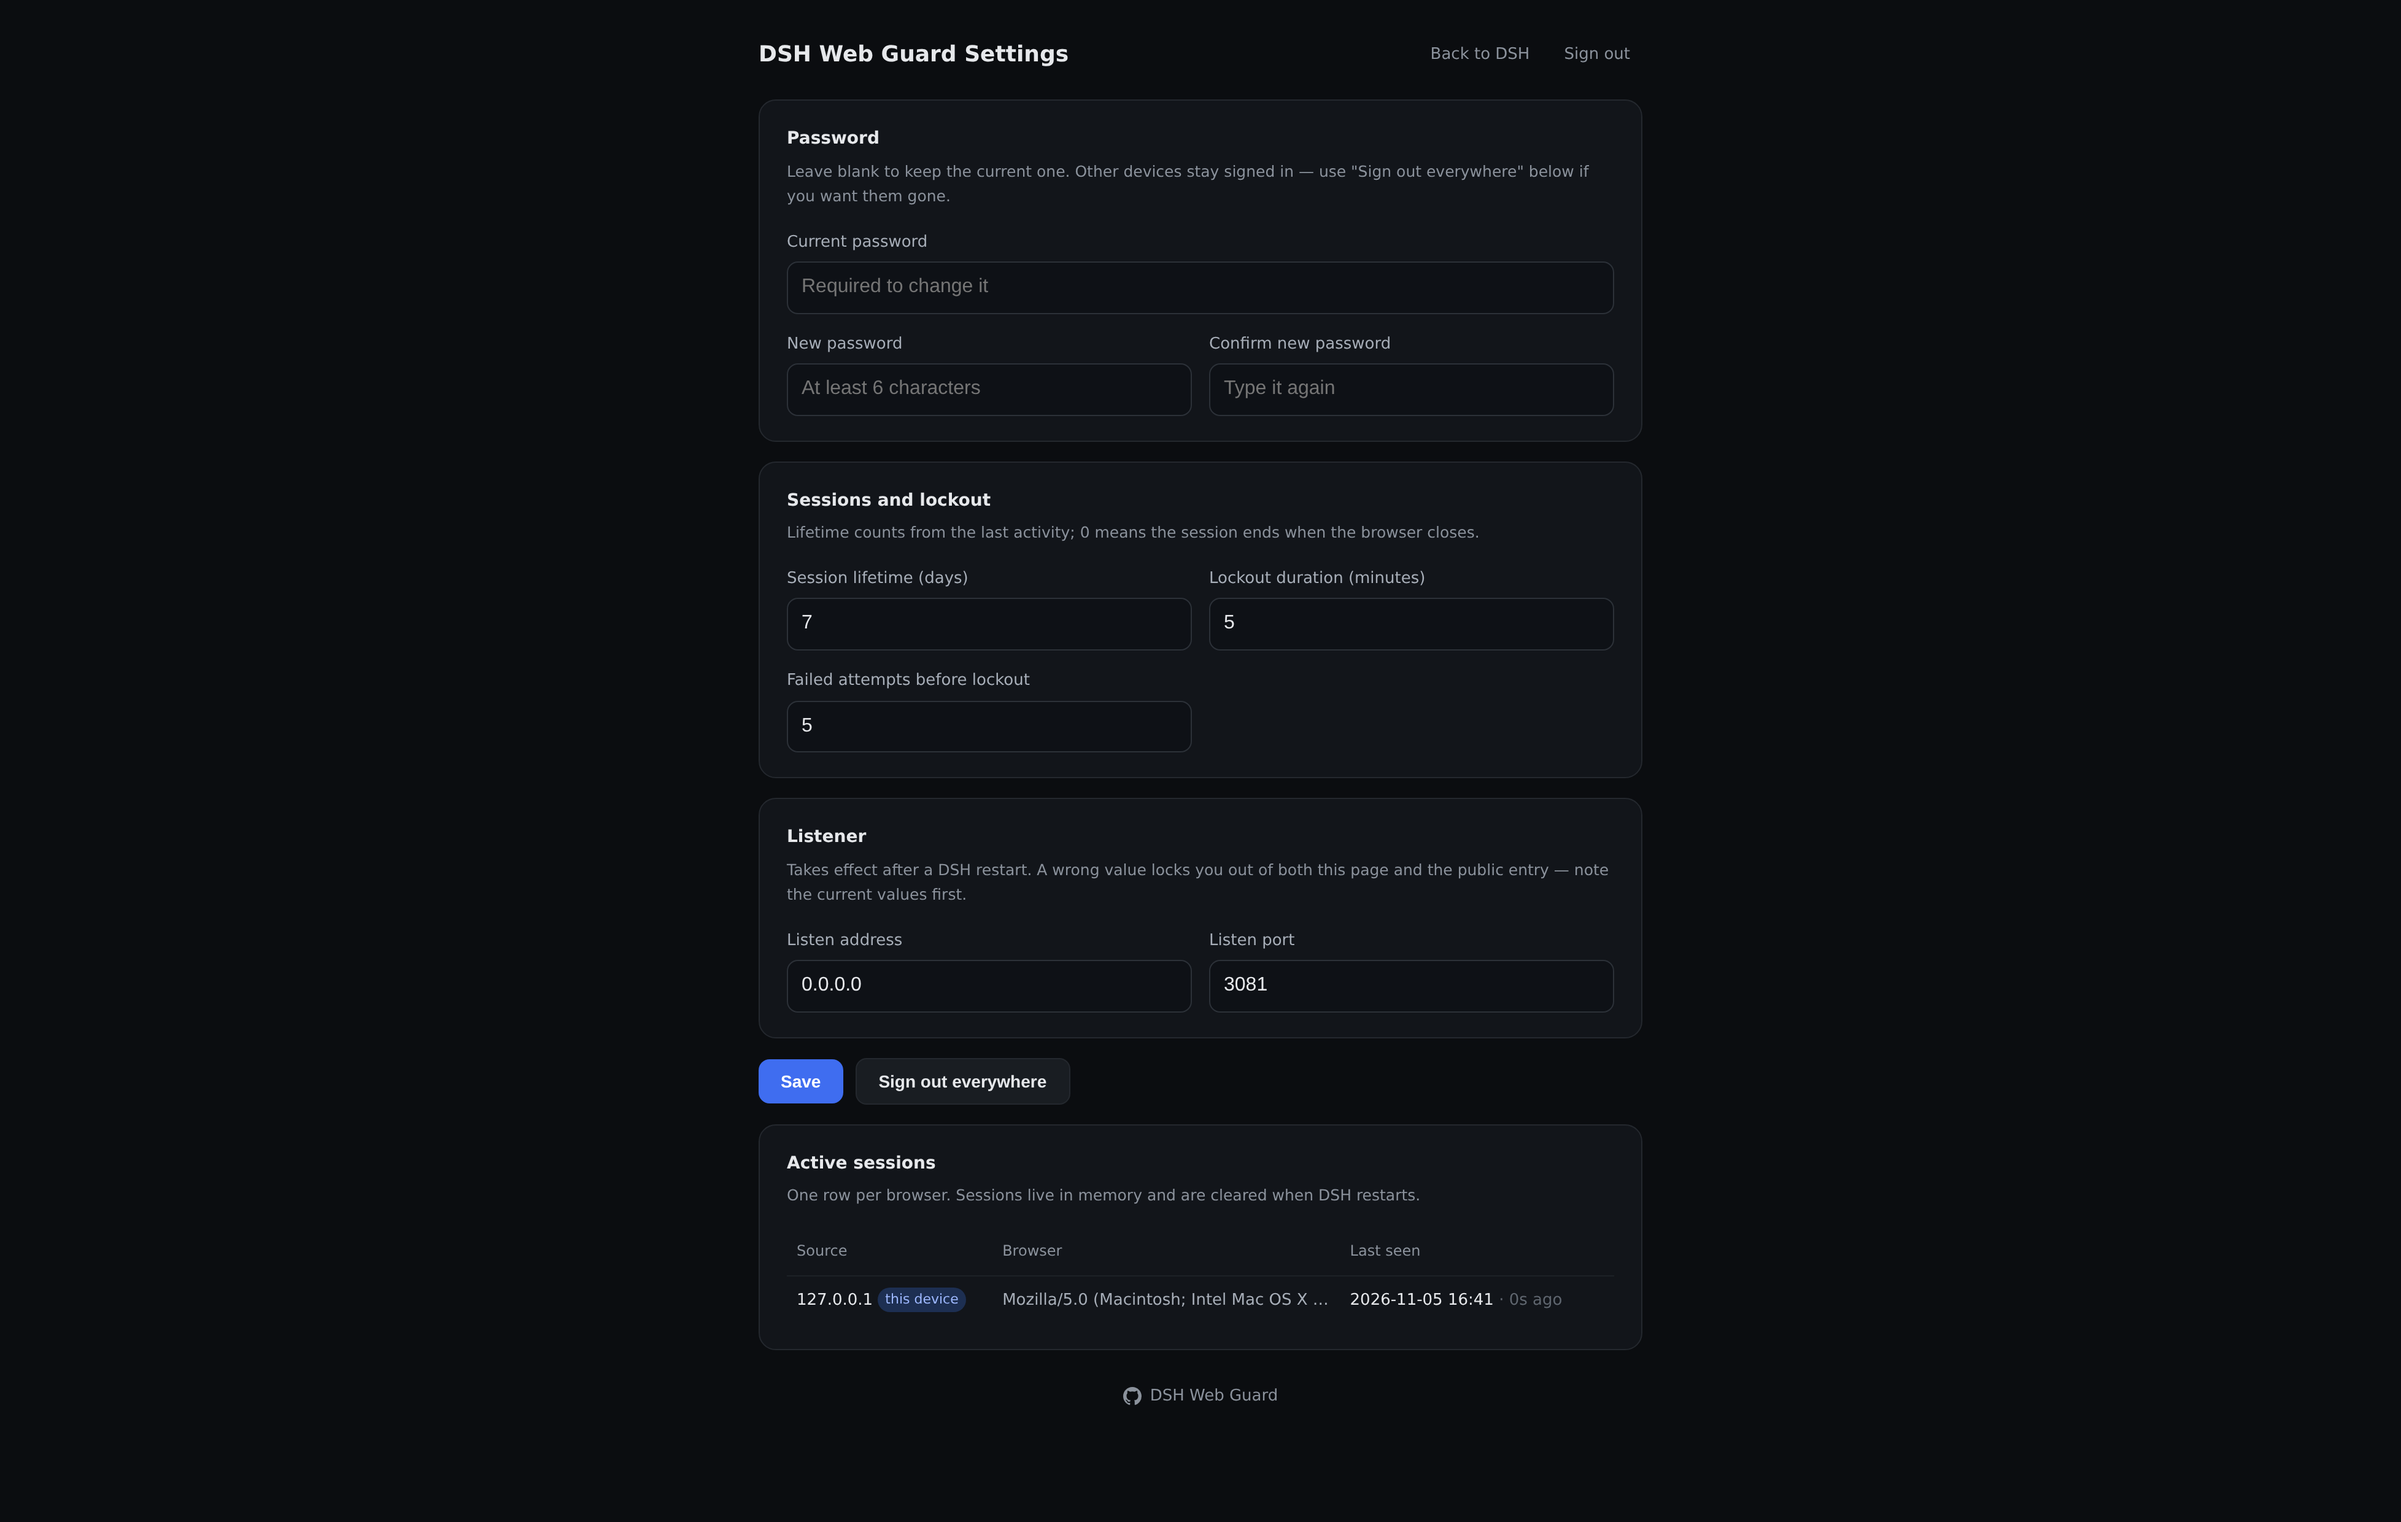
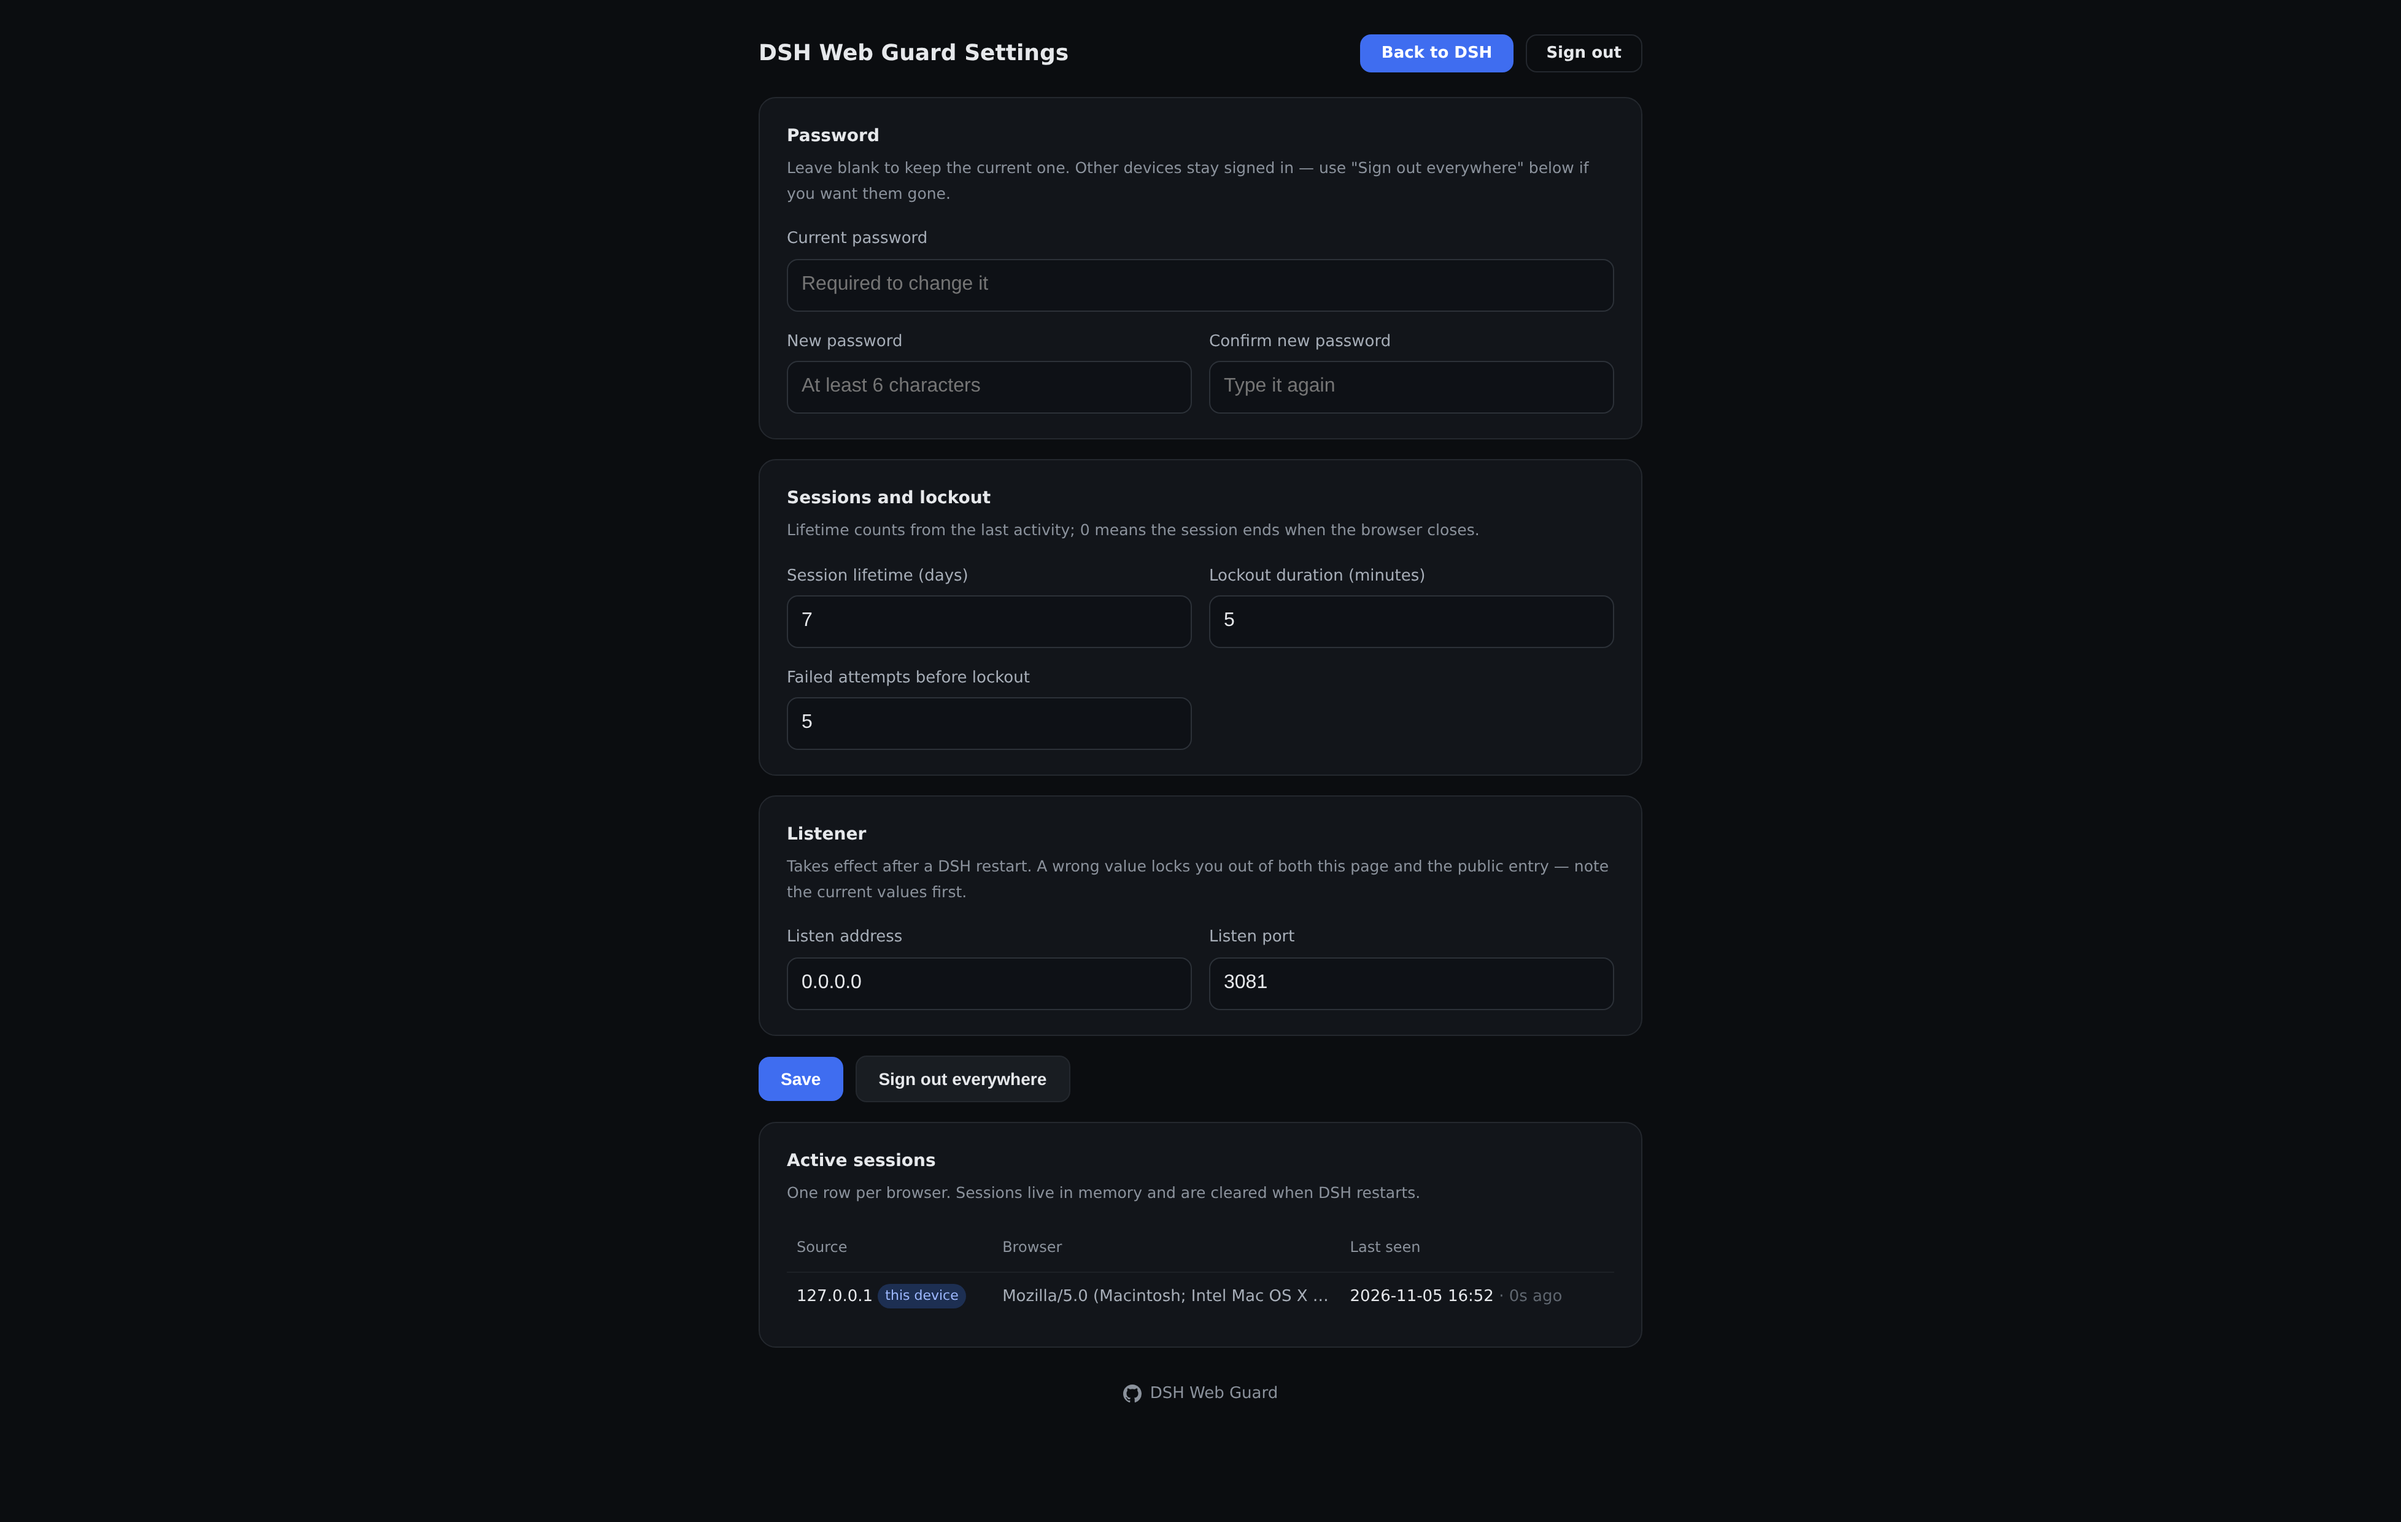
style: make the header actions read as buttons
'Back to DSH' becomes a filled primary button and 'Sign out' a bordered
one that turns danger-red on hover, so the two are visible instead of
looking like secondary text links.

diff --git a/lib/admin.js b/lib/admin.js
@@ -58,9 +58,13 @@ export function adminPage({ settings, sessions = [], notice = '', error = '', re
   .wrap{width:min(100%,720px);margin:0 auto}
   header{display:flex;align-items:center;justify-content:space-between;gap:12px;margin-bottom:20px;flex-wrap:wrap}
   h1{margin:0;font-size:18px;font-weight:600}
-  header .links{display:flex;gap:8px;align-items:center;font-size:13px}
-  header a{color:var(--muted);text-decoration:none;padding:6px 10px;border-radius:8px}
-  header a:hover{color:var(--text);background:#191d22}
+  header .links{display:flex;gap:10px;align-items:center;font-size:13px}
+  header a{display:inline-flex;align-items:center;padding:8px 16px;border-radius:9px;font-size:13px;
+    font-weight:600;text-decoration:none;line-height:1;border:1px solid transparent;transition:.15s}
+  header a:first-child{background:var(--accent);color:#fff}
+  header a:first-child:hover{background:#4f7bf5}
+  header a:last-child{border-color:var(--line);color:var(--text)}
+  header a:last-child:hover{border-color:var(--danger);color:var(--danger)}
   .card{border:1px solid var(--line);border-radius:14px;background:var(--card);padding:20px 22px;margin-bottom:16px}
   .card h2{margin:0 0 4px;font-size:14px;font-weight:600}
   .card p.hint{margin:0 0 16px;color:var(--muted);font-size:12.5px}
